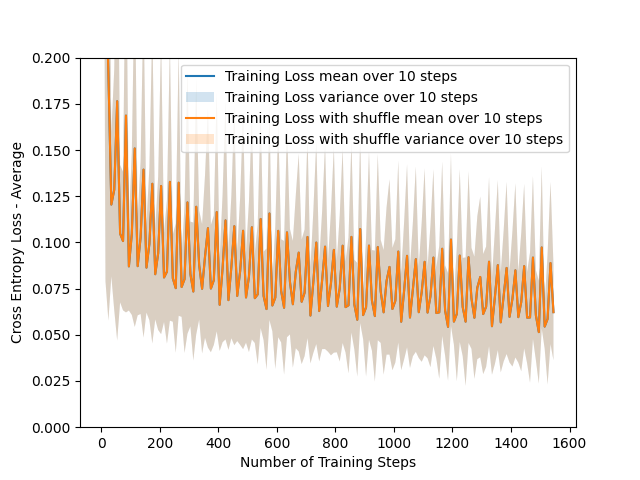
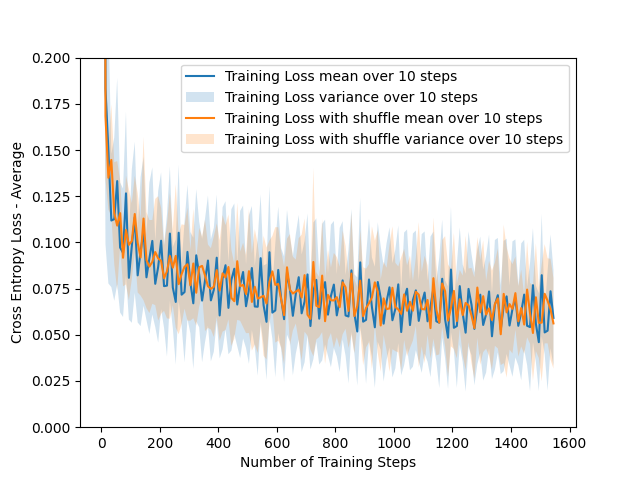
task3

Changed region(s): [[0.1562, 0.125, 0.875, 0.7812]]

diff --git a/assignment1/task3a.py b/assignment1/task3a.py
@@ -15,17 +15,17 @@ def cross_entropy_loss(targets: np.ndarray, outputs: np.ndarray):
     # TODO implement this function (Task 3a)
     assert targets.shape == outputs.shape,\
         f"Targets shape: {targets.shape}, outputs: {outputs.shape}"
-    raise NotImplementedError
-
+    
+    return -np.sum(targets*np.log(outputs))/targets.shape[0]
 
 class SoftmaxModel:
 
     def __init__(self, l2_reg_lambda: float):
         # Define number of input nodes
-        self.I = None
+        self.I = 785
 
         # Define number of output nodes
-        self.num_outputs = None
+        self.num_outputs = 10
         self.w = np.zeros((self.I, self.num_outputs))
         self.grad = None
 
@@ -38,9 +38,16 @@ class SoftmaxModel:
         Returns:
             y: output of model with shape [batch size, num_outputs]
         """
-        # TODO implement this function (Task 3a)
-        return None
+        z = lambda x,k: self.w.T[k].dot(x)
 
+        model = lambda x,k: np.exp(z(x,k))/(np.sum([np.exp(z(x,k)) for k in range(self.num_outputs)]))
+        
+        class_probs = []
+        for i in range(self.num_outputs):
+            class_probs.append(np.apply_along_axis(model, 1, X, i))
+        
+        return np.array(class_probs).T
+        
     def backward(self, X: np.ndarray, outputs: np.ndarray, targets: np.ndarray) -> None:
         """
         Computes the gradient and saves it to the variable self.grad
@@ -50,14 +57,16 @@ class SoftmaxModel:
             outputs: outputs of model of shape: [batch size, num_outputs]
             targets: labels/targets of each image of shape: [batch size, num_classes]
         """
-        # TODO implement this function (Task 3a)
-        # To implement L2 regularization task (4b) you can get the lambda value in self.l2_reg_lambda
-        # which is defined in the constructor.
+        # TODO To implement L2 regularization task (4b) you can get the lambda value in self.l2_reg_lambda
+        
         assert targets.shape == outputs.shape,\
             f"Output shape: {outputs.shape}, targets: {targets.shape}"
         self.grad = np.zeros_like(self.w)
         assert self.grad.shape == self.w.shape,\
             f"Grad shape: {self.grad.shape}, w: {self.w.shape}"
+        
+        self.grad = -np.dot(X.T, targets - outputs)/X.shape[0]
+            
 
     def zero_grad(self) -> None:
         self.grad = None
@@ -71,9 +80,13 @@ def one_hot_encode(Y: np.ndarray, num_classes: int):
     Returns:
         Y: shape [Num examples, num classes]
     """
-    # TODO implement this function (Task 3a)
-    raise NotImplementedError
-
+    new = []
+    for i in range(Y.shape[0]):
+        vector = np.zeros(num_classes)
+        vector[Y[i]] = 1
+        new.append(vector)
+        
+    return np.array(new)
 
 def gradient_approximation_test(model: SoftmaxModel, X: np.ndarray, Y: np.ndarray):
     """

diff --git a/assignment1/trainer.py b/assignment1/trainer.py
@@ -91,7 +91,15 @@ class BaseTrainer:
                     # TODO (Task 2d): Implement early stopping here.
                     # You can access the validation loss in val_history["loss"]
                     # Stop the training if the validation loss does not improve after passing through the validation set 10 times.
-                    
+                    # if global_step / num_steps_per_val > 10:
+                    #     current_check = val_history["loss"][global_step - 10 * num_steps_per_val]
+                        
+                    #     for i in range(9, -1, -1):
+                    #         if val_history["loss"][global_step - i * num_steps_per_val] < current_check:
+                    #             break
+                    #         if i == 0:
+                    #             print("Early stopping")
+                    #             return train_history, val_history
                     
                 global_step += 1
         return train_history, val_history

diff --git a/assignment1/utils.py b/assignment1/utils.py
@@ -2,6 +2,7 @@ from typing import Generator
 import mnist
 import numpy as np
 import matplotlib.pyplot as plt
+from random import shuffle
 
 
 def batch_loader(
@@ -25,6 +26,8 @@ def batch_loader(
     indices = list(range(len(X)))
 
     # TODO (task 2e) implement dataset shuffling here.
+    if shuffle:
+        np.random.shuffle(indices)
 
     for i in range(num_batches):
         # select a set of indices for each batch of samples

diff --git a/assignment1/task2.py b/assignment1/task2.py
@@ -70,7 +70,7 @@ class LogisticTrainer(BaseTrainer):
 
 def main():
     # hyperparameters DO NOT CHANGE IF NOT SPECIFIED IN ASSIGNMENT TEXT
-    num_epochs = 500
+    num_epochs = 50
     learning_rate = 0.05
     batch_size = 128
     shuffle_dataset = False
